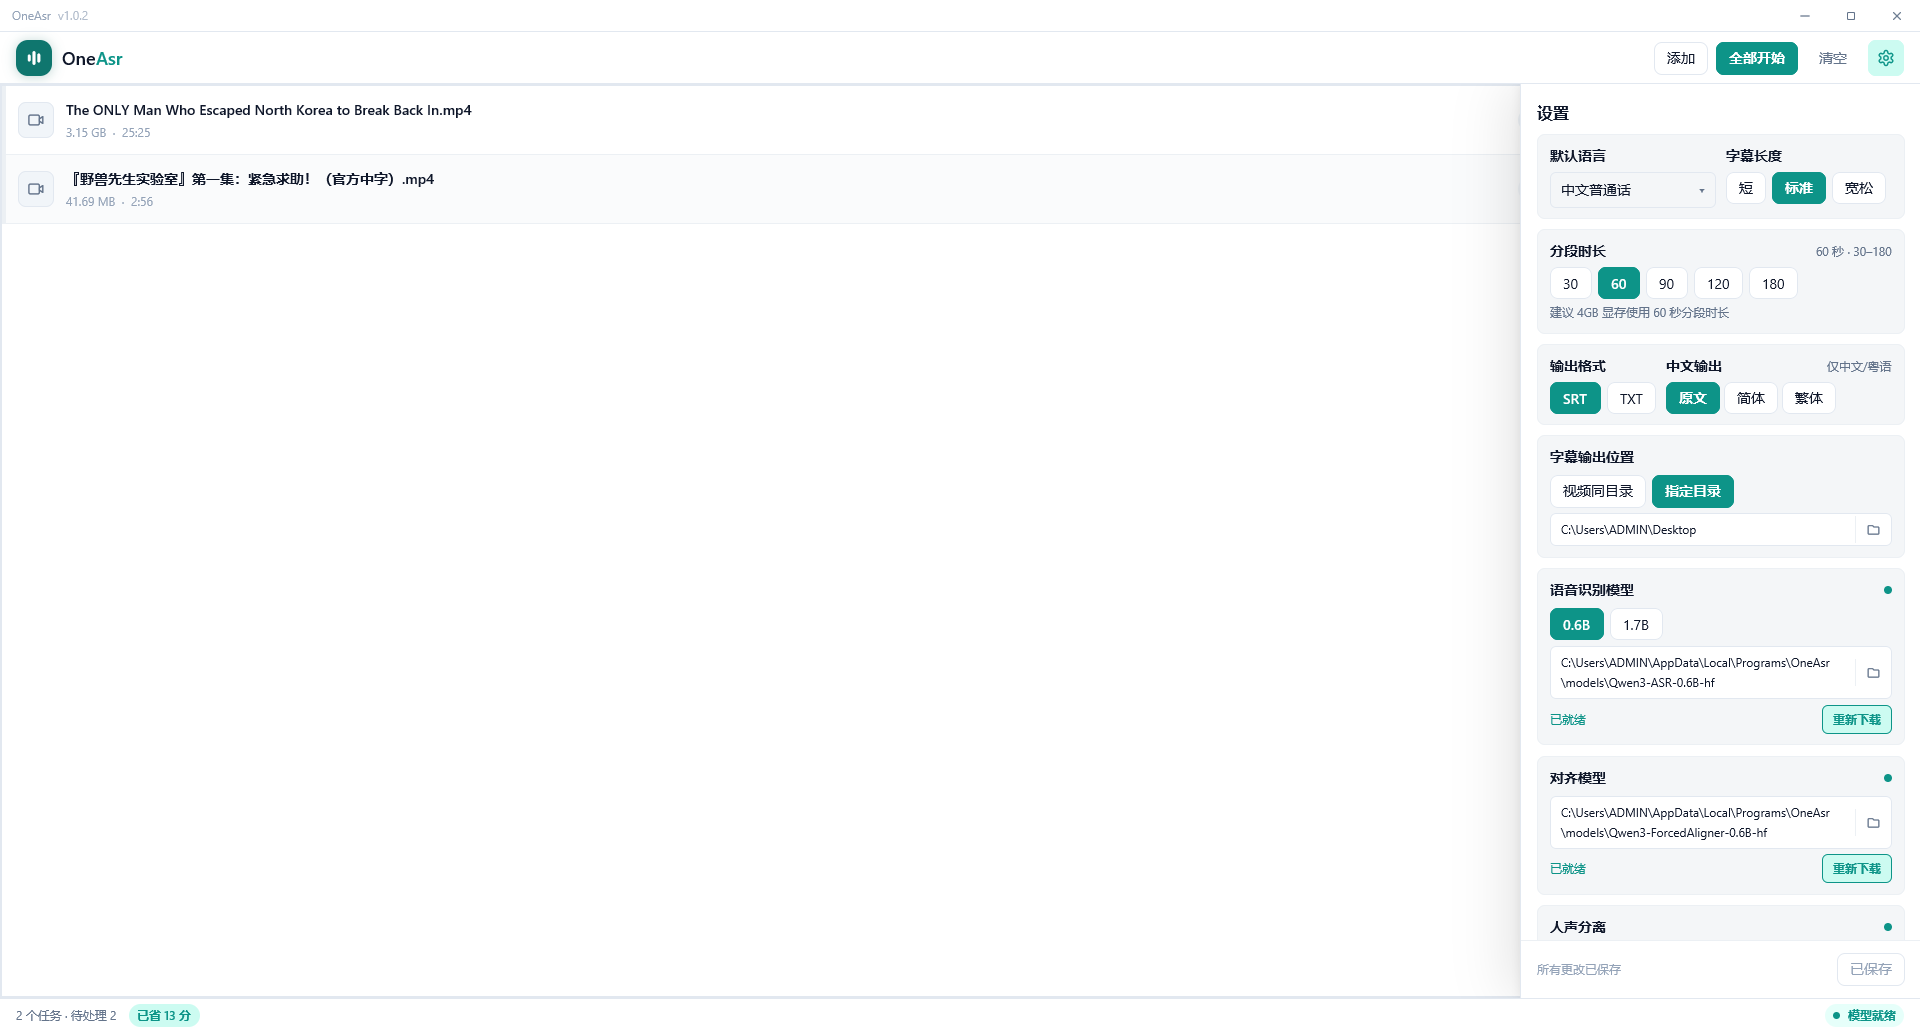
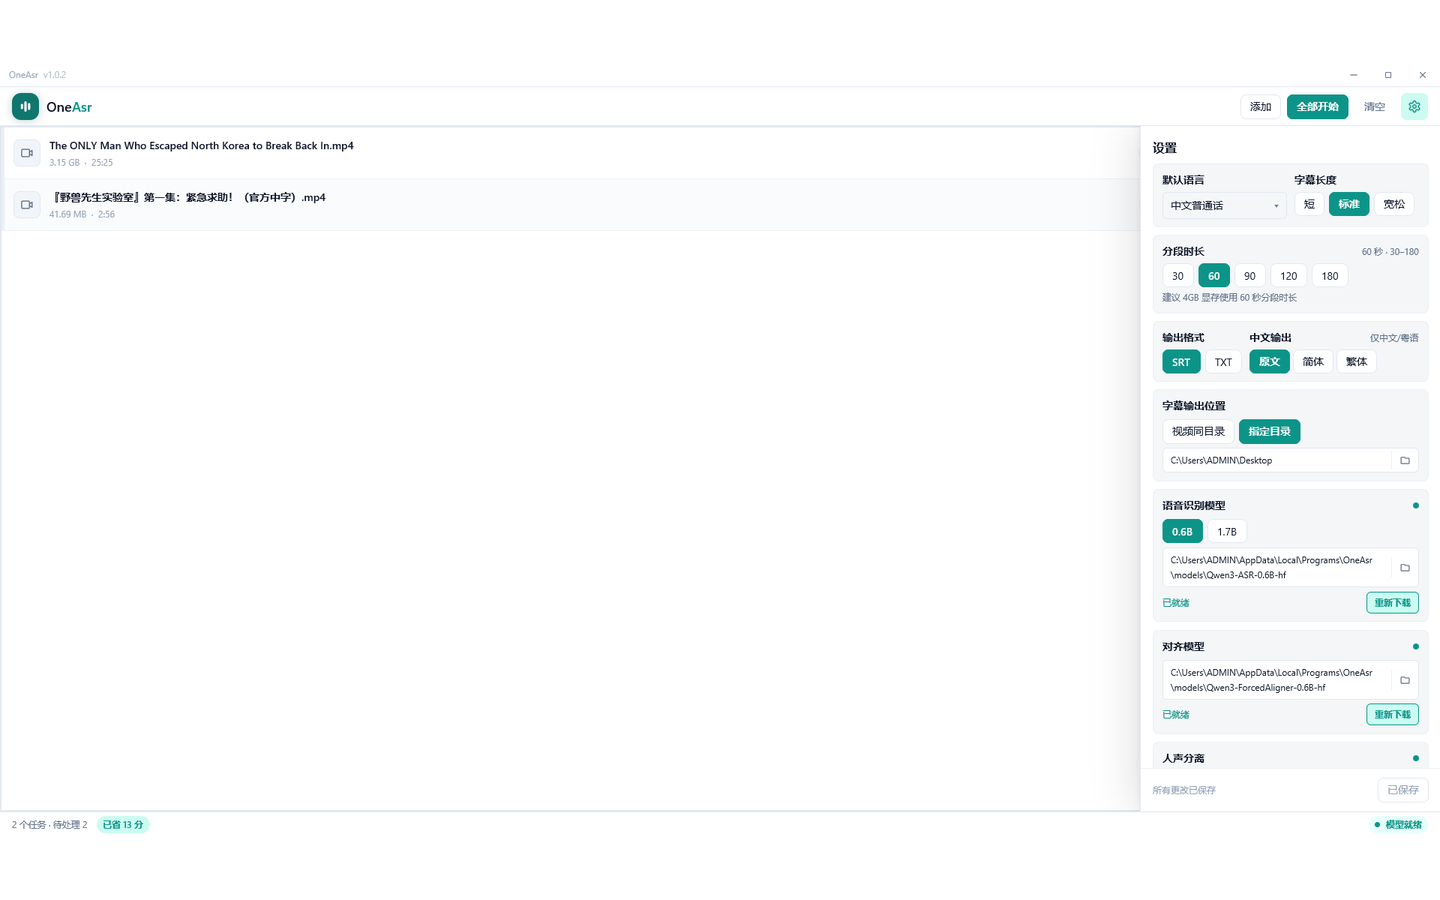
docs(readme): 截图统一尺寸并移入界面预览小节
删除显存驻留说明句，正文顶部不再直接堆图；两张截图统一为 1440x900 并排同宽，用户在快速上手后按需查看。

diff --git a/README.md b/README.md
@@ -3,19 +3,12 @@
   <p>本地 · 离线 · 批量音视频 → SRT / TXT 字幕</p>
   <p>Windows / Linux / macOS · 基于 Qwen3-ASR + ForcedAligner · 不上传云端</p>
 
-  [下载安装](#下载安装) · [快速上手](#快速上手) · [CLI 命令行](#cli-命令行) · [Release](https://github.com/eclipse005/OneAsr/releases)
+  [下载安装](#下载安装) · [快速上手](#快速上手) · [界面预览](#界面预览) · [CLI 命令行](#cli-命令行) · [Release](https://github.com/eclipse005/OneAsr/releases)
 </div>
 
 ```text
 音视频 → [人声分离] → VAD 分段 → 识别 → 对齐打轴 → 智能断句 → *.srt / *.txt
 ```
-
-任意时刻显存只驻留**一个**大模型（先 ASR，再 Aligner），4GB 级显卡也能跑通 0.6B 组合。
-
-<p align="center">
-  <img src="docs/images/main.png" width="49%" alt="主界面" />
-  <img src="docs/images/tasks-settings.png" width="49%" alt="任务列表与设置" />
-</p>
 
 ## 下载安装
 
@@ -33,6 +26,14 @@
 2. **设置** → 下载 **ASR**（建议先 0.6B）+ **ForcedAligner**（必需）
 3. 选好源语言 → 添加音视频 → 开始
 4. 输出目录拿同名 `.srt`
+
+## 界面预览
+
+主界面空态与任务列表 + 设置抽屉（并排同一尺寸）：
+
+| 主界面（空态） | 任务列表与设置 |
+|---|---|
+| <img src="docs/images/main.png" width="420" alt="主界面空态" /> | <img src="docs/images/tasks-settings.png" width="420" alt="任务列表与设置抽屉" /> |
 
 ## 功能
 
